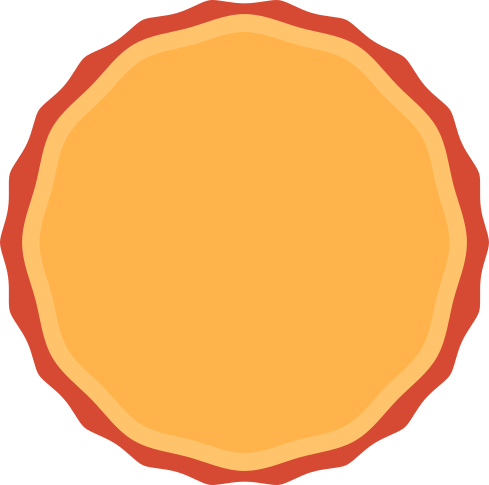
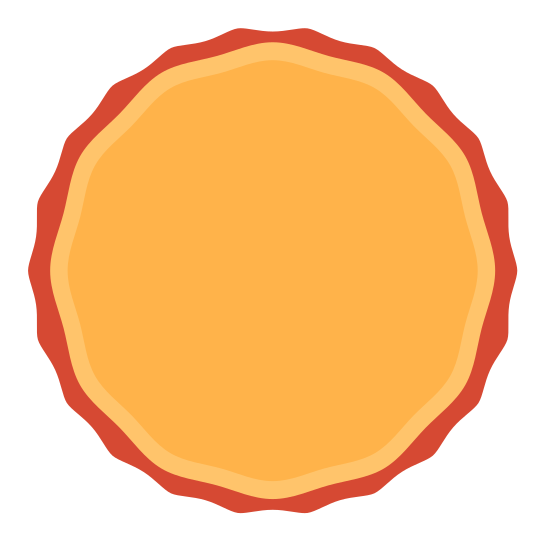
Adapted css to make the pizza and the ingredients responsive

diff --git a/src/screens/CustomizedFoodPage.js b/src/screens/CustomizedFoodPage.js
@@ -283,23 +283,24 @@ export default function CustomizedFoodPage() {
         <PizzaChange {...chosenIngredientsList} />
       </div>
 
-      <ul className="flex flex-wrap justify-evenly">
+      <ul className="ingredients">
         {ingredientsKcal
           .filter((ingredient) => ingredient.category === 'Ingredient')
           .map((ingr) => (
-            <li key={ingr.id} className="flex flex-col m-6">
+            <li key={ingr.id} className="ingredient">
               <div className="m-6 font-bold text-2xl text-center">
                 {ingr.name}
               </div>
               <button
                 type="button"
+                className="m-auto w-full"
                 onClick={() => handleChangeQuantity(ingr.id, 'add')}
               >
                 <img
                   id={ingr.id}
                   src={ingr.imgsrc}
                   alt={ingr.name}
-                  className="max-w-xs"
+                  className="sm:w-48 w-28 m-auto"
                 />
               </button>
               <div className="mt-4 font-bold text-l text-center">

diff --git a/src/App.css b/src/App.css
@@ -70,16 +70,47 @@ header {
   fill: var(--tomato-color);
 }
 
-.pizza-mockup {
-  width: 600px;
-  height: 600px;
-  margin: 0 auto;
+.pizza-mockup-container {
+  width: 80vw;
+  height: 90vw;
+  margin: 5vw auto;
   position: relative;
 }
 
-.img-ingredients {
+.img-pizza-construction {
   position: absolute;
+  width: 100%;
+  height: auto;
   top: 50%;
   left: 50%;
   transform: translateX(-50%) translateY(-50%);
+}
+
+.ingredients {
+  overflow-x: scroll;
+  overflow-y: hidden;
+  white-space: nowrap;
+}
+
+.ingredient {
+  display: inline-block;
+  margin: 20px;
+  background: rgba(255, 255, 255, 0.5);
+  padding: 10px;
+  border-radius: 10px;
+  vertical-align: top;
+}
+
+@media screen and (min-width: 640px) {
+  .pizza-mockup-container {
+    width: 630px;
+    height: 630px;
+  }
+
+  .ingredients {
+    @apply flex flex-wrap justify-evenly;
+  }
+  .ingredient {
+    @apply flex flex-col m-6;
+  }
 }

diff --git a/src/components/PizzaChange.js b/src/components/PizzaChange.js
@@ -2,14 +2,14 @@ export default function PizzaChange(props) {
   const ChosenIngredientsList = Object.keys(props).map((i) => props[i]);
   return (
     <div>
-      <div className="pizza-mockup">
+      <div className="pizza-mockup-container">
         {ChosenIngredientsList.map((ingr) =>
           ingr.quantity > 0 ? (
             <img
               key={ingr.id}
               src={ingr.imgsrc}
               alt={ingr.name}
-              className="img-ingredients"
+              className="img-pizza-construction"
             />
           ) : null
         )}
